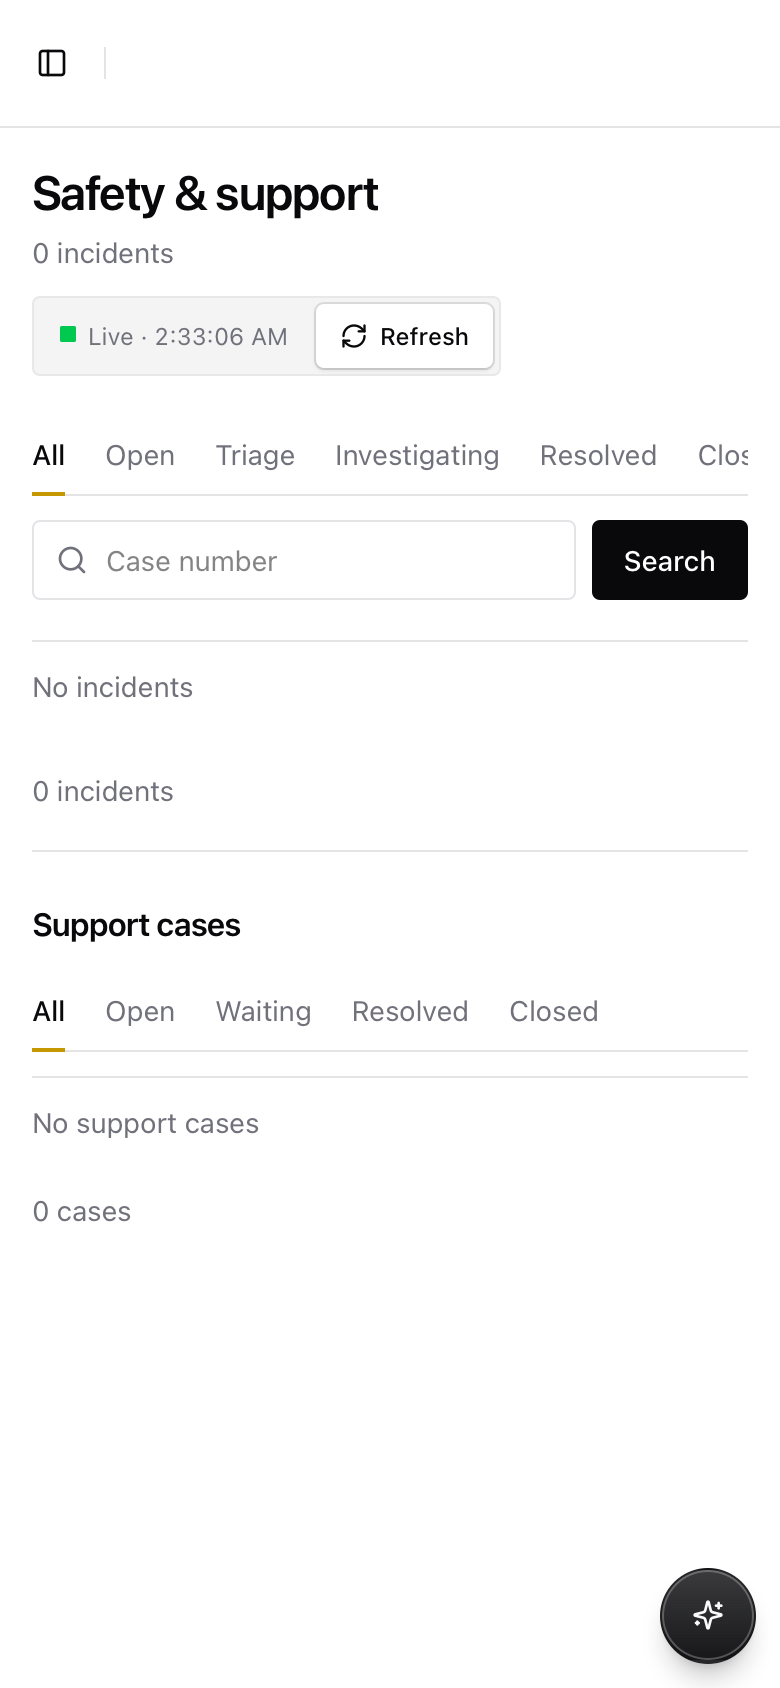
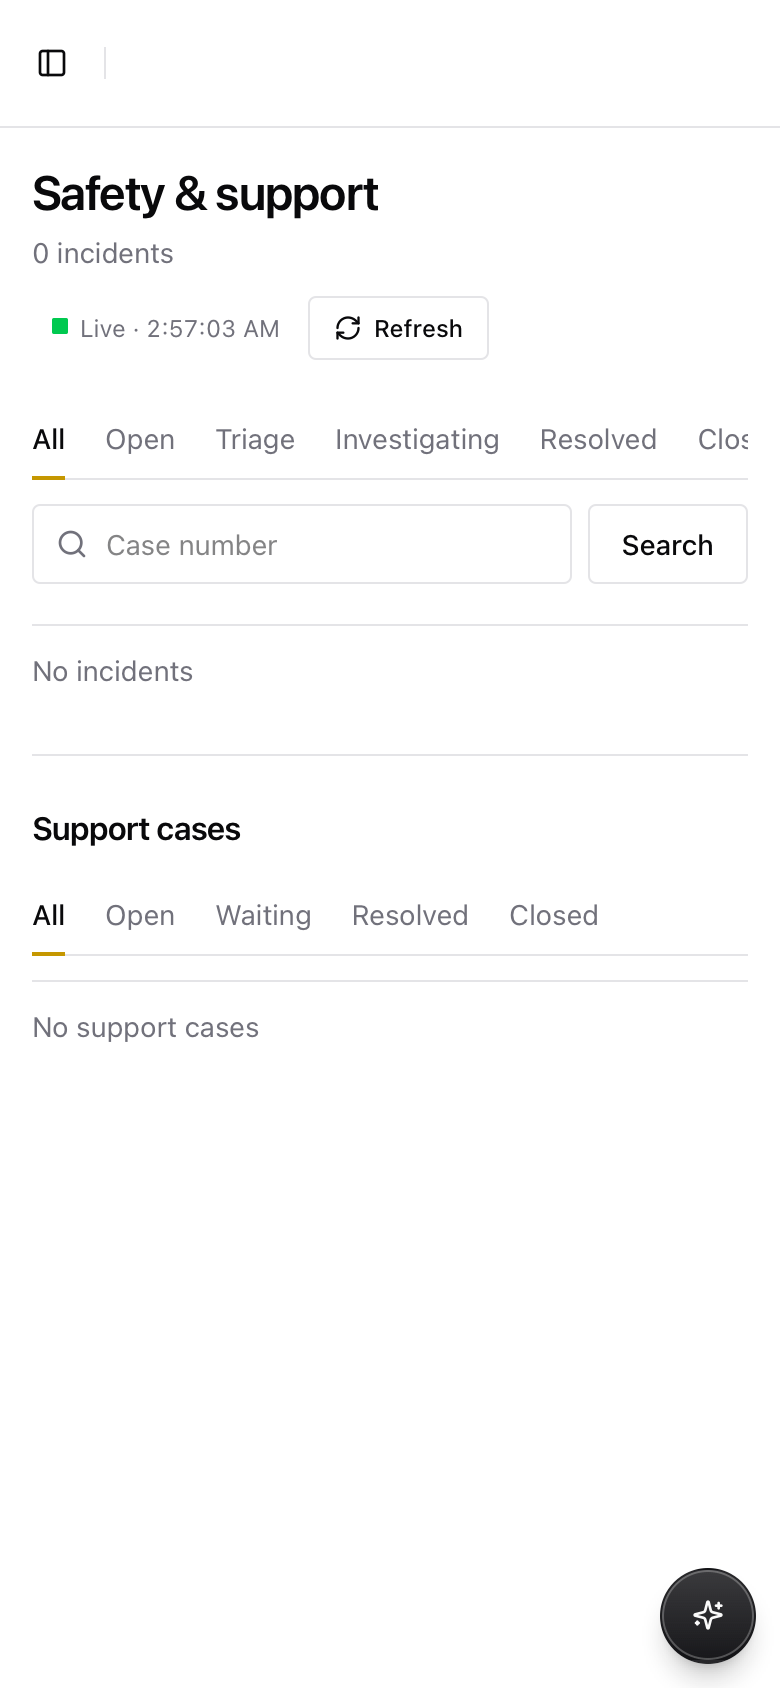
Urideshare: redesign report and after screenshots

diff --git a/design/2026-10-25-full/DESIGN-READY.md b/design/2026-10-25-full/DESIGN-READY.md
@@ -1,0 +1,75 @@
+# Rideshare: full redesign, 2026-10-25
+
+- **Brief:** `~/Code/Euler/state/briefs/batches-2-6-full-redesign-2026-10-25.md`
+- **Live:** https://openfront-rideshare-production.up.railway.app
+- **Commits on master (auto-deployed):**
+  - `2078bed`: redesign
+  - `77eeb43`: finish-review fixes
+  - `3707f0f`: design record
+  - the commit that adds this report
+
+## What changed
+
+### Operator pages (`features/platform/**`): the "licence plate" world
+- **Shared kit** (`PillTabs.tsx`, `PlatformPage.tsx`, `OperationsBoard.tsx`, `StatusTitle.tsx`, `fleet.css`):
+  - The recessed pill tracks are now flat underline status tabs. The current tab is marked with a deeper yellow rule.
+  - Command buttons are square (4px). Cab yellow fills only the primary action, and Search is now a secondary button.
+  - Status marks are square.
+  - Empty queues show one line, with no "0 requests" footer.
+  - The live refresh control is flat.
+- **Dispatch:**
+  - A ruled supply strip shows Waiting, Oldest wait, Available, Offered, Assigned and On trip, plus "Available now" with driver names.
+  - Each request shows how long it has waited.
+  - A dispatcher can see supply against demand without leaving the page.
+- **Vehicles:**
+  - Registrations are set as plates.
+  - "Retire vehicle" is a separate red action, and its confirmation says what it does.
+- **Settings:** pausing the fleet, turning dispatch off and closing rider accounts each ask first, and say what stops.
+- **Copy fixes:**
+  - "1 payment" (singular).
+  - Driver checks read as their outcome; the "Check:" prefix is gone.
+
+### Rider pages (`features/storefront/**`)
+- Square kerb-stone choices, with a signal-yellow edge on the chosen option.
+- Square command buttons with no glow.
+- Square cards and fields.
+- Labels in sentence case instead of tracked capitals.
+- A square accessibility switch.
+- Booking integrity is unchanged: quote binding, expiry, fees before Request, and recovery.
+
+### What stayed
+- Every route, state and workflow.
+- The shared dashboard shell.
+- Onboarding, setup and seed files.
+
+## Skills used, and what each changed
+- **impeccable:**
+  - `init` wrote PRODUCT.md (inferred).
+  - `critique`, dual-agent (`CRITIQUE.md`).
+  - `concept-seed` for operator (operate) and rider (persuade). Both seeds were verified by the reviewer with `--check-seed`.
+  - Craft floor.
+  - One finish-reviewer round, disposition **fix**. Applied in `77eeb43`: plates, single primary, empty footers, confirm-first settings, rider labels, square switch.
+  - The documenter wrote DESIGN.md and `.impeccable/design.json`.
+- **design-taste-frontend / frontend-design / hallmark:**
+  - Removed the glow and the pill clone kit.
+  - Applied honest copy: no invented service area, hours or claims.
+- **emil-design-eng / apple-design:** colour-only transitions, press feedback, and reduced motion respected.
+- **industrial-brutalist-ui / minimalist-ui:** their ruled and flat discipline shaped the supply strip; their terminal costume was declined.
+- **high-end-visual-design / gpt-taste:** read and declined.
+
+## Gates
+- `tsc --noEmit` through heavy-exec: child exit 0, 0 errors.
+- `npm test`: 4/4. Family security and shared dashboard: 22/22.
+- Parity: drift 0, missing 0.
+- After the redesign deploy, live screenshots were taken from the deployed site.
+
+## Open items
+- **Boards are still card rows, not tables.** The reviewer asked for real tables with column heads and a status column on Trips, Drivers and Finance. That means rewriting each board's renderer, so it is the next step.
+- **Finance has no period money summary.**
+- **The rider site has no local identity line** (service area, hours, phone). The fleet data has no such fields, and inventing them is out of bounds.
+- **Thin demo data:** there are no trips, reviews or payments, so the screenshots are mostly empty states.
+- **Onboarding** keeps rounded cards. The brief forbids touching onboarding files.
+
+## Screenshots
+- `design/2026-10-25-full/before/` and `after/`: live, WebKit, desktop 1440 and phone 390, full page.
+- The rider home and `/book` render the same page, so the final after set captures it once, as `/`.
